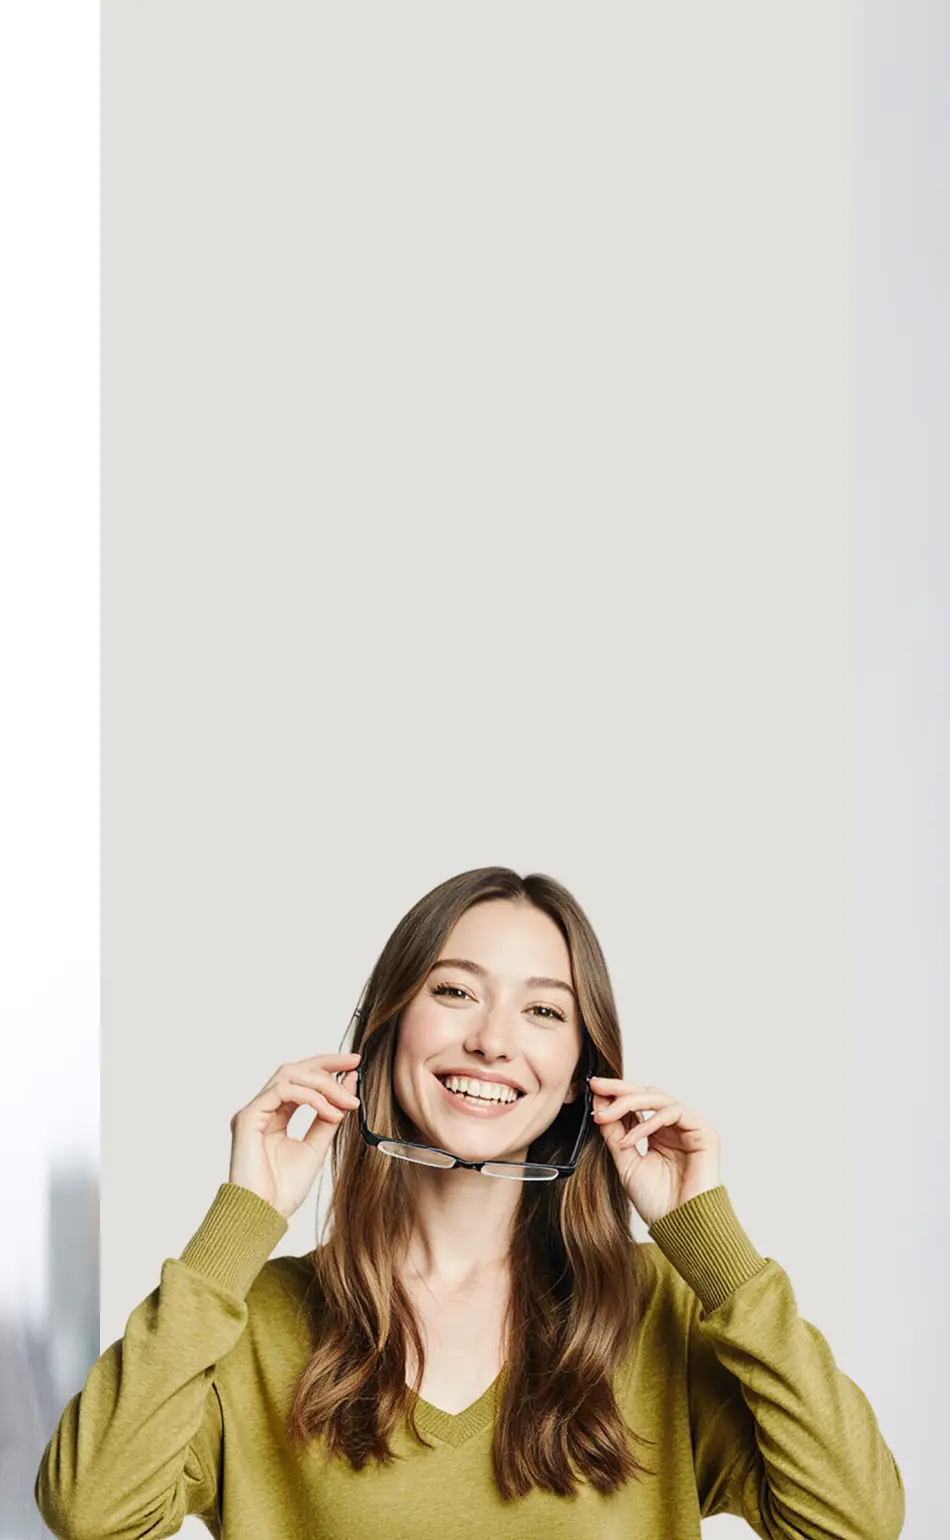
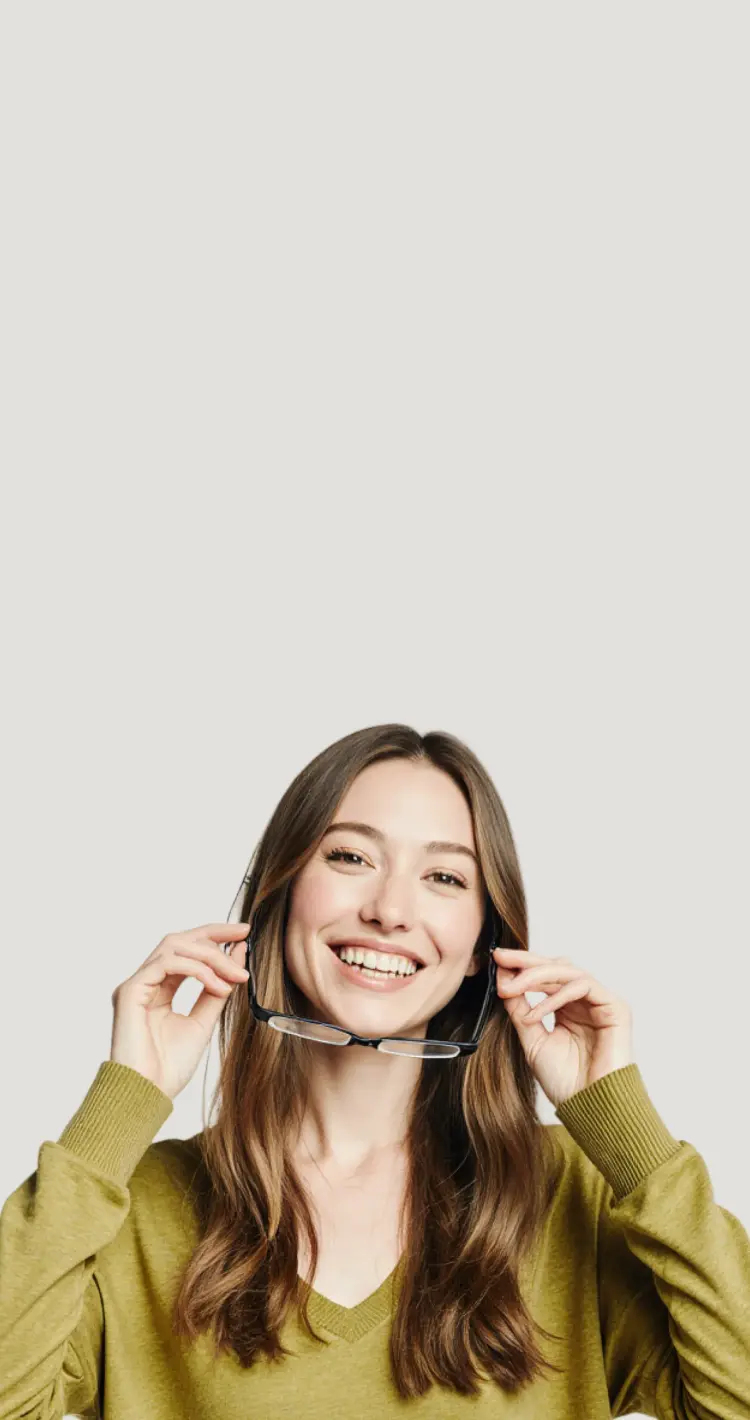
Фиксы

diff --git a/src/scss/sections/_first-visit.scss b/src/scss/sections/_first-visit.scss
@@ -39,7 +39,7 @@
     @include media.breakpoint(mobile) {
       gap: 1.5rem;
       padding-left: 0;
-      max-width: 27.2rem;
+      max-width: none;
     }
   }
 
@@ -74,7 +74,7 @@
     max-width: 84rem;
 
     @include media.breakpoint(mobile) {
-      max-width: 34.3rem;
+      max-width: none;
     }
   }
 

diff --git a/src/scss/base/_reset.scss b/src/scss/base/_reset.scss
@@ -49,7 +49,6 @@
   body.menu-open,
   body.modal-open {
     touch-action: none;
-    -webkit-overflow-scrolling: none;
     overflow: hidden;
     overscroll-behavior: none;
   }
